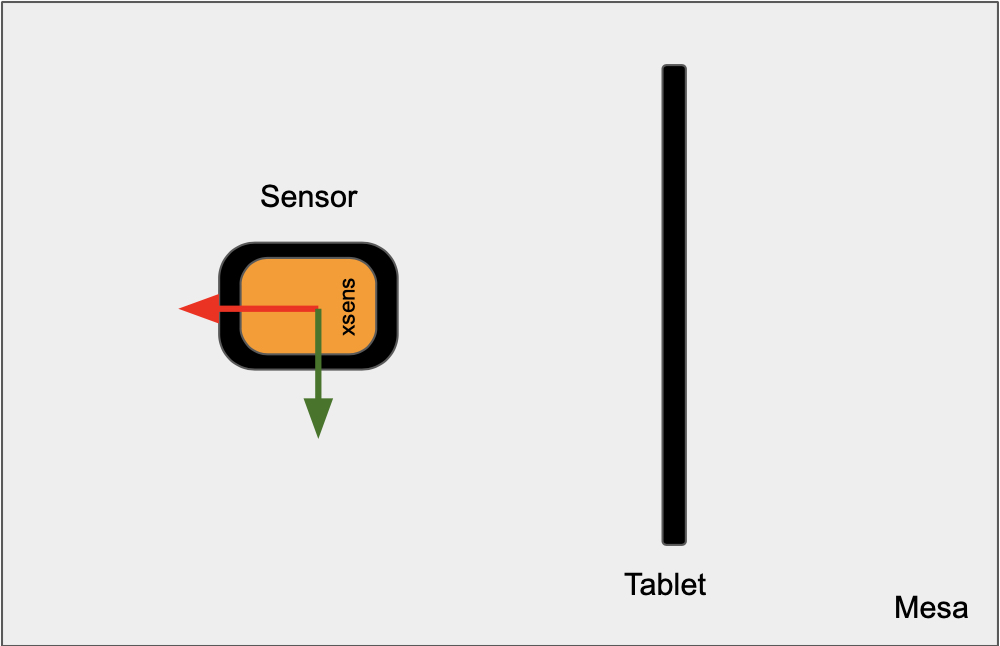
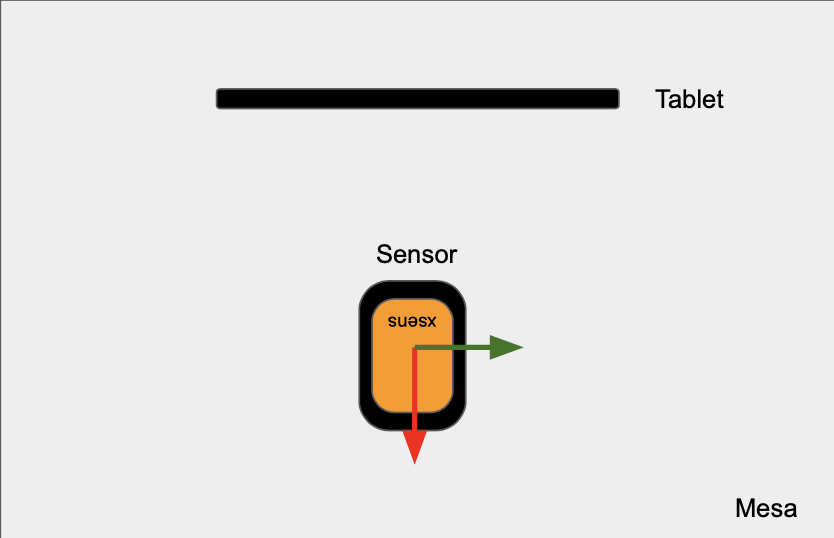
Update_AtrapaFrutas

diff --git a/lib/screens/game_AtrapaFrutas.dart b/lib/screens/game_AtrapaFrutas.dart
@@ -236,14 +236,14 @@ class _AtrapaFrutasScreenState extends State<AtrapaFrutasScreen> {
             mainAxisAlignment: MainAxisAlignment.center,
             children: [
               const Text(
-                "Coloca el sensor como en la imagen",
+                "Coloca el sensor derecho como en la imagen",
                 style: TextStyle(fontSize: 22),
                 textAlign: TextAlign.center,
               ),
               const SizedBox(height: 24),
               Image.asset(
-                'assets/images/PosicionDeCalibracion.jpg',
-                width: 320,
+                'assets/images/PosicionDeCalibracion2.jpg',
+                width: 500,
                 fit: BoxFit.contain,
                 errorBuilder: (_, __, ___) =>
                     const Icon(Icons.image_not_supported, size: 90, color: Colors.grey),

diff --git a/lib/screens/game_ApuntaYAcierta.dart b/lib/screens/game_ApuntaYAcierta.dart
@@ -159,14 +159,14 @@ class _ApuntaYAciertaScreenState extends State<ApuntaYAciertaScreen> {
             mainAxisAlignment: MainAxisAlignment.center,
             children: [
               const Text(
-                "Coloca el sensor como en la imagen y pulsa Calibrar",
+                "Coloca el sensor derecho como en la imagen y pulsa Calibrar",
                 style: TextStyle(fontSize: 22),
                 textAlign: TextAlign.center,
               ),
               const SizedBox(height: 24),
               Image.asset(
                 'assets/images/PosicionDeCalibracion.jpg',
-                width: 320,
+                width: 500,
                 fit: BoxFit.contain,
                 errorBuilder: (_, __, ___) =>
                     const Icon(Icons.image_not_supported, size: 90, color: Colors.grey),
